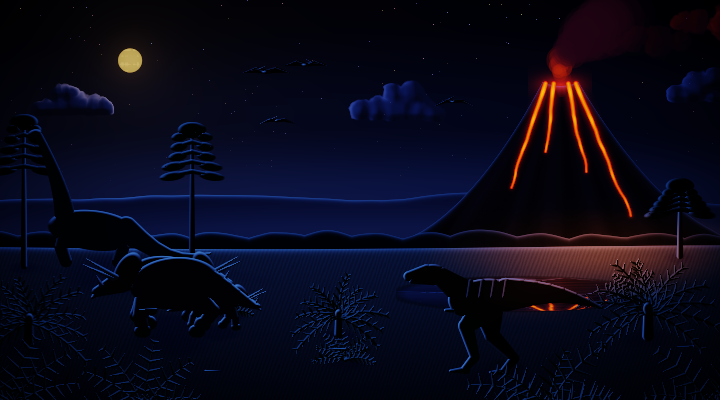
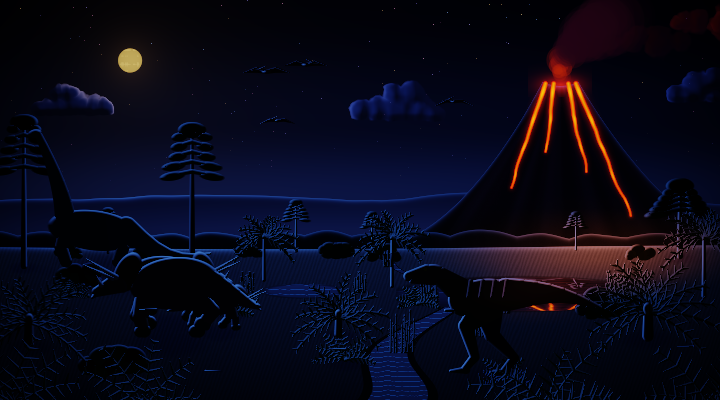
Give the prehistoric scene a river, a pond and lusher plants
The lake now shows at every activity level, fed and drained by a river, with a pond on the plain. Tree ferns, bushes, horsetail reeds, distant monkey-puzzles and more ferns fill out the plain.

diff --git a/wallpapers/prehistoric.ts b/wallpapers/prehistoric.ts
@@ -307,10 +307,8 @@ class Prehistoric extends Canvas {
     if (this.night) {
       const pulse = (lag: number) => 0.5 + 0.5 * Math.sin(this.time * 0.6 - lag)
       this.lights.pool((A - VENT_X + 0.08 + 0.02 * Math.sin(this.time * 0.25)) * this.H, 0.63 * this.H, 0.45 * this.H, 0.13 * this.H, [1, 0.36, 0.06], 2.1 + 0.7 * pulse(0), 0.03)
-      if (this.activity === "teeming") {
-        const [lx, ly, lrx, lry] = this.lake()
-        this.lights.pool((Math.max(lx, A - VENT_X - 0.05) + 0.03 * Math.sin(this.time * 0.3)) * this.H, ly * this.H, lrx * 0.7 * this.H, lry * 1.6 * this.H, [1, 0.3, 0.05], 1.6 * pulse(0.9), 0.02 * pulse(0.9))
-      }
+      const [lx, ly, lrx, lry] = this.lake()
+      this.lights.pool((Math.max(lx, A - VENT_X - 0.05) + 0.03 * Math.sin(this.time * 0.3)) * this.H, ly * this.H, lrx * 0.7 * this.H, lry * 1.6 * this.H, [1, 0.3, 0.05], 1.6 * pulse(0.9), 0.02 * pulse(0.9))
     }
     this.lights.apply(this.hdr)
     for (const [i, x] of [0.01, 0.2, 0.76, 0.99].entries()) this.drawFern(x * A, 1.03, 0.17 + hash(i) * 0.04, i, true)
@@ -394,11 +392,30 @@ class Prehistoric extends Canvas {
       haze(this.hdr, sky, W, H, 0.62, 0.8, 0.14, 0, 0.56)
     }
     this.pool = { y0: 0, y1: 0, rows: new Float32Array(0), amp: new Float32Array(0), gloss: new Float32Array(0) }
-    if (this.activity === "teeming") this.paintLake()
+    this.paintLake()
+    this.paintRiver()
     const water = this.hdr.slice(this.pool.y0 * W * 3, this.pool.y1 * W * 3)
     // The sauropod's two trees keep to the left, the volcano to the right.
     this.trees = [0.06, 0.48]
     const ground = (x: number, y: number, w: number, h: number, tip?: number) => groundShadow(this.hdr, W, H, this.shade, x * H, y * H, w * H, h * H, tip)
+    const [lx, ly, lrx, lry] = this.lake()
+    // Small monkey-puzzles and bushes along the forest's edge, far off.
+    const distant = [
+      [0.27, 0.632, 0.52, 0.4],
+      [0.74, 0.628, 0.5, 0.45],
+      [0.93, 0.626, 0.53, 0.35],
+      [A - 0.36, 0.624, 0.53, 0.35],
+    ]
+    for (const [x, base, top, s] of distant) this.drawTree(x, base, top, s)
+    const edge = [
+      [0.17, 0.648, 0.034],
+      [0.37, 0.65, 0.04],
+      [0.62, 0.645, 0.034],
+      [0.84, 0.65, 0.045],
+      [lx - lrx - 0.04, 0.655, 0.04],
+      [A - 0.2, 0.652, 0.036],
+    ]
+    for (const [i, [x, y, s]] of edge.entries()) this.drawBush(x, y, s, i + 3)
     for (const [x, base, top] of [[this.trees[0], 0.665, 0.29], [this.trees[1], 0.662, 0.31], [A - 0.1, 0.64, 0.45]]) ground(x, base, 0.08, base - top, 1.5)
     for (const [x, y, s] of [[0.32, 0.78, 0.07], [0.88, 0.74, 0.08], [0.48, 0.9, 0.08]]) ground(x * A, y, s * 1.4, s * 0.8, 1.2)
     for (const [x, y, s] of [[0.04, 0.86, 0.09], [0.47, 0.835, 0.07], [0.9, 0.84, 0.1]]) ground(x * A, y, s * 1.4, s * 1.1, 1.5)
@@ -406,10 +423,38 @@ class Prehistoric extends Canvas {
     this.drawTree(this.trees[1], 0.662, 0.31)
     this.drawTree(A - 0.1, 0.64, 0.45)
     this.plants.begin(this.hdr)
+    // Tree ferns on either side of the lake, and bushes in the middle distance.
+    const treeFerns = [
+      [lx - lrx - 0.02, 0.715, 0.05],
+      [0.66, 0.7, 0.045],
+      [A - 0.04, 0.74, 0.06],
+    ]
+    for (const [x, base, size] of treeFerns) this.drawCycad(x, base, size, 2.4)
+    const bushes = [
+      [0.2, 0.72, 0.055],
+      [lx + lrx * 0.7, 0.8, 0.065],
+      [0.16 * A, 0.95, 0.08],
+    ]
+    for (const [i, [x, y, s]] of bushes.entries()) this.drawBush(x, y, s, i + 11)
+    // Horsetails crowd the lake's shore and the river's banks.
+    const reeds = [
+      [lx - lrx * 0.75, ly + lry * 0.6, 0.08],
+      [lx + lrx * 0.82, ly + lry * 0.2, 0.07],
+      [lx - lrx * 0.15, ly + lry * 1.1, 0.06],
+      [lx - lrx * 0.55 - 0.13, 0.88, 0.1],
+      [lx - lrx * 0.55 + 0.06, 0.84, 0.08],
+      [lx - lrx * 0.9 - 0.06, 0.665, 0.035],
+      [0.62, 0.735, 0.05],
+      [0.9, 0.73, 0.045],
+    ]
+    for (const [i, [x, y, s]] of reeds.entries()) this.drawReeds(x, y, s, i + 5)
     const ferns = [
       [0.32, 0.78, 0.07],
       [0.88, 0.74, 0.08],
       [0.48, 0.9, 0.08],
+      [0.1, 0.74, 0.05],
+      [0.58, 0.76, 0.05],
+      [0.7, 0.95, 0.07],
     ]
     for (const [i, [x, y, s]] of ferns.entries()) this.drawFern(x * A, y, s, i + 7, false)
     const cycads = [
@@ -418,8 +463,14 @@ class Prehistoric extends Canvas {
       [0.9, 0.84, 0.1],
     ]
     for (const [x, base, size] of cycads) this.drawCycad(x * A, base, size)
-    // Each plant bends from its base, the cycads' wide crowns over a wider reach.
-    const reach = [...ferns.map(([x, y, s]) => [x * A, y, s, s * 1.2]), ...cycads.map(([x, y, s]) => [x * A, y, s, s * 2.2])]
+    // Each plant bends from its base, the cycads' and tree ferns' wide crowns over a wider reach.
+    const reach = [
+      ...ferns.map(([x, y, s]) => [x * A, y, s, s * 1.2]),
+      ...cycads.map(([x, y, s]) => [x * A, y, s, s * 2.2]),
+      ...treeFerns.map(([x, y, s]) => [x, y, s * 2.4, s * 2.2]),
+      ...bushes.map(([x, y, s]) => [x, y, s * 2, s * 1.2]),
+      ...reeds.map(([x, y, s]) => [x, y, s, s * 0.6]),
+    ]
     this.plants.end(this.hdr, W, H, 0.01 * H, (px, py) => reach.reduce((w, [x, y, s, r]) => (Math.abs(px / H - x) < r ? Math.max(w, clamp((y - py / H) / (s * 1.2), 0, 1)) : w), 0))
     // Plants painted over the water stay in front of its reflection.
     const p = this.pool
@@ -571,34 +622,82 @@ class Prehistoric extends Canvas {
     }
   }
 
+  // A river winding in across the plain to the lake's far shore, and out of its near shore toward the viewer, and a
+  // pond. They show the sky's horizon color, brighter in the distance, with a few ripples catching the light.
+  private paintRiver() {
+    const { W, H, look, px } = this
+    const [lx, ly, lrx, lry] = this.lake()
+    const mud = this.paint([0.3, 0.24, 0.15])
+    const sky = look.sky[look.sky.length - 1][1]
+    const reaches = [
+      { y0: 0.62, y1: ly - lry * 0.4, x0: lx - lrx * 0.9 - 0.1, x1: lx - lrx * 0.55, w0: 0.002, w1: 0.012, amp: 0.025, seed: 1 },
+      { y0: ly + lry * 0.4, y1: 1.02, x0: lx - lrx * 0.5, x1: lx - lrx * 0.55 - 0.16, w0: 0.014, w1: 0.08, amp: 0.05, seed: 2 },
+    ]
+    // A small pond out on the plain, between the sauropod's trees and the lake.
+    const [qx, qy, qrx, qry] = [0.76, 0.728, 0.1, 0.017]
+    for (let y = Math.floor((qy - qry * 1.4) * H); y < Math.ceil((qy + qry * 1.4) * H); y++)
+      for (let x = Math.floor((qx - qrx * 1.2) * H); x < Math.ceil((qx + qrx * 1.2) * H); x++) {
+        const q = Math.hypot(((x + 0.5) / H - qx) / qrx, ((y + 0.5) / H - qy) / qry)
+        const o = (y * W + x) * 3
+        this.blend(o, mud[0], mud[1], mud[2], clamp((1.15 - q) * 6, 0, 1) * 0.8)
+        const wet = clamp((1 - q) * qry * H * 0.5 + 0.5, 0, 1)
+        if (wet <= 0) continue
+        const mirror = 0.5 - 0.3 * clamp(((y + 0.5) / H - qy + qry) / (2 * qry), 0, 1)
+        const ripple = 0.18 * smoothstep(0.75, 1, Math.sin((y / px) * 1.3 + fbm1((x / px) * 0.08 + 5, 4) * 6))
+        this.blend(o, lerp(look.water[0], sky[0] * look.mirror[0], mirror) + look.ripple[0] * ripple, lerp(look.water[1], sky[1] * look.mirror[1], mirror) + look.ripple[1] * ripple, lerp(look.water[2], sky[2] * look.mirror[2], mirror) + look.ripple[2] * ripple, wet)
+      }
+    for (const r of reaches)
+      for (let y = Math.floor(r.y0 * H); y < Math.min(H, Math.ceil(r.y1 * H)); y++) {
+        const t = clamp((y / H - r.y0) / (r.y1 - r.y0), 0, 1)
+        const w = lerp(r.w0, r.w1, t) * H
+        const cx = (lerp(r.x0, r.x1, t) + r.amp * (Math.sin(TAU * t + r.seed) - Math.sin(r.seed))) * H
+        const mirror = 0.45 - 0.25 * t
+        const water: RGB = [lerp(look.water[0], sky[0] * look.mirror[0], mirror), lerp(look.water[1], sky[1] * look.mirror[1], mirror), lerp(look.water[2], sky[2] * look.mirror[2], mirror)]
+        for (let x = Math.max(0, Math.floor(cx - w * 1.4 - 1)); x < Math.min(W, Math.ceil(cx + w * 1.4 + 1)); x++) {
+          if (Math.hypot(((x + 0.5) / H - lx) / lrx, ((y + 0.5) / H - ly) / lry) < 1) continue
+          const d = Math.abs(x + 0.5 - cx)
+          const o = (y * W + x) * 3
+          this.blend(o, mud[0], mud[1], mud[2], clamp(w * 1.35 - d + 0.5, 0, 1) * 0.8)
+          const wet = clamp(w - d + 0.5, 0, 1)
+          if (wet <= 0) continue
+          const ripple = 0.18 * smoothstep(0.75, 1, Math.sin((y / px) * 1.3 + fbm1((x / px) * 0.08 + r.seed * 9, 4) * 6))
+          this.blend(o, water[0] + look.ripple[0] * ripple, water[1] + look.ripple[1] * ripple, water[2] + look.ripple[2] * ripple, wet)
+        }
+      }
+  }
+
   // The lake's center and radii, in screen heights.
   private lake() {
     return [this.A - VENT_X - 0.1, 0.735, Math.min(0.3, 0.22 * this.A), 0.042] as const
   }
 
   // A monkey-puzzle conifer: a bare trunk with tiers of drooping branches toward its rounded top.
-  private drawTree(x: number, base: number, top: number) {
+  // scale shrinks it for the distance.
+  private drawTree(x: number, base: number, top: number, scale = 1) {
     const H = this.H
     const h = base - top
-    this.shape([cap(x * H, base * H, x * H, (top + 0.02) * H, 0.008 * H, 0.004 * H, this.paint(BARK))], this.lighting, 0.6)
+    const z = scale
+    this.shape([cap(x * H, base * H, x * H, (top + 0.02 * z) * H, this.thick(0.008 * z), this.thick(0.004 * z), this.paint(BARK))], this.lighting, 0.6)
     const needles = this.paint(NEEDLES)
-    const parts: Part[] = [ell(x * H, (top + 0.015) * H, 0.035 * H, 0.02 * H, 0, needles)]
+    const parts: Part[] = [ell(x * H, (top + 0.015 * z) * H, 0.035 * z * H, 0.02 * z * H, 0, needles)]
     for (let k = 0; k < 5; k++) {
-      const y = top + 0.02 + k * h * 0.07
-      const w = 0.035 + k * 0.008 + hash(x * 9 + k) * 0.01
+      const y = top + 0.02 * z + k * h * 0.07
+      const w = (0.035 + k * 0.008 + hash(x * 9 + k) * 0.01) * z
       for (const s of [-1, 1]) {
-        parts.push(cap(x * H, y * H, (x + s * w) * H, (y + 0.012) * H, 0.006 * H, 0.004 * H, needles))
-        parts.push(ell((x + s * w * 0.7) * H, (y + 0.012) * H, w * 0.45 * H, 0.011 * H, s * 0.15, needles))
+        parts.push(cap(x * H, y * H, (x + s * w) * H, (y + 0.012 * z) * H, this.thick(0.006 * z), this.thick(0.004 * z), needles))
+        parts.push(ell((x + s * w * 0.7) * H, (y + 0.012 * z) * H, w * 0.45 * H, 0.011 * z * H, s * 0.15, needles))
       }
     }
     this.shape(parts, this.lighting, this.look.style === "rim" ? 0.4 : 0.7)
   }
 
-  // A cycad: a stout scaly trunk crowned with stiff feathery fronds and a cone in the middle.
-  private drawCycad(x: number, base: number, size: number) {
+  // A cycad: a stout scaly trunk crowned with stiff feathery fronds and a cone in the middle. A tall trunk (in sizes)
+  // makes it a tree fern instead: a slim shaggy trunk and no cone.
+  private drawCycad(x: number, base: number, size: number, trunk = 0.6) {
     const H = this.H
-    const top = base - size * 0.6
-    this.shape([cap(x * H, base * H, x * H, top * H, size * 0.14 * H, size * 0.12 * H, this.paint([0.42, 0.32, 0.18]), 4)], this.lighting, 0.7)
+    const top = base - size * trunk
+    const fern = trunk > 1
+    this.shape([cap(x * H, base * H, x * H, top * H, size * (fern ? 0.1 : 0.14) * H, size * (fern ? 0.07 : 0.12) * H, this.paint(fern ? [0.3, 0.22, 0.14] : [0.42, 0.32, 0.18]), 4)], this.lighting, 0.7)
     const frond = this.paint(FROND)
     for (let i = 0; i < 11; i++) {
       const a = -Math.PI - 0.35 + (i / 10) * (Math.PI + 0.7) + (hash(i + x) - 0.5) * 0.15
@@ -623,7 +722,46 @@ class Prehistoric extends Canvas {
       // On terminal cells rim light would outline every frond in scribbles; they stay near-silhouettes there.
       this.shape(parts, this.lighting, this.look.style === "rim" ? (this.cells ? 0.18 : 0.3) : 0.6)
     }
-    this.shape([ell(x * H, (top - 0.008) * H, size * 0.12 * H, size * 0.16 * H, 0, this.paint([0.7, 0.5, 0.2]), 3)], this.lighting, 0.6)
+    if (!fern) this.shape([ell(x * H, (top - 0.008) * H, size * 0.12 * H, size * 0.16 * H, 0, this.paint([0.7, 0.5, 0.2]), 3)], this.lighting, 0.6)
+  }
+
+  // A low mound of leafy clumps, the back ones darker.
+  private drawBush(x: number, y: number, size: number, seed: number) {
+    const H = this.H
+    const greens = [this.paint(NEEDLES), this.paint(FROND), this.paint([0.24, 0.44, 0.16])]
+    const parts: Part[] = []
+    for (let i = 0; i < 8; i++) {
+      const u = (i / 7 - 0.5) * 1.5 + (hash(seed * 13 + i) - 0.5) * 0.3
+      const r = size * (0.42 + 0.22 * hash(seed * 7 + i)) * (1 - 0.35 * Math.abs(u))
+      const cy = y - r * 0.8 - size * 0.45 * (1 - u * u) * hash(seed * 3 + i)
+      parts.push(ell((x + u * size) * H, cy * H, r * H, r * 0.8 * H, 0, greens[i % 3]))
+    }
+    parts.sort((a, b) => (a.kind === "ellipse" && b.kind === "ellipse" ? a.cy - b.cy : 0))
+    this.shape(parts, this.lighting, this.look.style === "rim" ? 0.3 : 0.6)
+  }
+
+  // Horsetails: a clump of straight jointed stalks, each tipped with a little cone.
+  private drawReeds(x: number, y: number, size: number, seed: number) {
+    const H = this.H
+    const stalk = this.paint([0.2, 0.32, 0.1])
+    const tip = this.paint([0.45, 0.38, 0.2])
+    const parts: Part[] = []
+    for (let i = 0; i < 9; i++) {
+      const bx = x + (hash(seed * 11 + i) - 0.5) * size * 0.6
+      const lean = (hash(seed * 5 + i) - 0.5) * 0.25
+      const h = size * (0.6 + 0.5 * hash(seed * 17 + i))
+      const tx = bx + lean * h
+      const ty = y - h
+      parts.push(cap(bx * H, y * H, tx * H, ty * H, this.thick(0.003), this.thick(0.002), stalk))
+      if (!this.cells)
+        for (let j = 1; j < 5; j++) {
+          const jx = bx + lean * h * (j / 5)
+          const jy = y - h * (j / 5)
+          for (const side of [-1, 1]) parts.push(cap(jx * H, jy * H, (jx + side * size * 0.08) * H, (jy + size * 0.05) * H, 0.0012 * H, 0.0006 * H, stalk))
+        }
+      parts.push(ell(tx * H, (ty - size * 0.03) * H, this.thick(0.0028), size * 0.05 * H, lean, tip))
+    }
+    this.shape(parts, this.lighting, this.look.style === "rim" ? (this.cells ? 0.18 : 0.3) : 0.6)
   }
 
   // A clump of fern fronds arching out and drooping at the tips; the front clumps sway in the breeze.

diff --git a/README.md b/README.md
@@ -47,7 +47,7 @@ With a light OpenCode theme the scene is washed out toward white and text gets a
 | `beach` | Waves washing up a sandy beach between swaying palms, with a sailboat on the horizon now and then. |
 | `city` | A skyline over a river, traffic on an elevated highway, and a blimp drifting over now and then. |
 | `zen` | A koi pond under a red bridge, raked gravel, stone lanterns and falling cherry petals, with a heron now and then. |
-| `prehistoric` | A smoking volcano over ferns and cycads, with a T. rex stomping by now and then. |
+| `prehistoric` | A smoking volcano over a lake, a winding river and lush ferns, cycads and tree ferns, with a T. rex stomping by now and then. |
 
 ### Activity
 
@@ -64,7 +64,7 @@ Every wallpaper has three activity levels, which set how much is going on behind
 | `beach` | Sea, waves, sand and palm trees | Adds leaping dolphins and seagulls | Adds a crab, a surfer, an umbrella and a sandcastle |
 | `city` | Skyline, river and light traffic on the highway | Adds a train crossing the bridge and more traffic | Adds neon signs, boats on the river, people on the street, and rain at night |
 | `zen` | Garden, pond ripples, petals and a bamboo fountain | Adds koi circling under the lily pads | Adds more koi, a frog on a lily pad and dragonflies |
-| `prehistoric` | Volcano, smoke, ferns and cycads | Adds a browsing sauropod and circling pterosaurs | Adds a triceratops herd, dragonflies and a lake with something in it |
+| `prehistoric` | Volcano, smoke, lake, river and plants | Adds a browsing sauropod and circling pterosaurs | Adds a triceratops herd, dragonflies and something in the lake |
 
 ### Time of day
 
